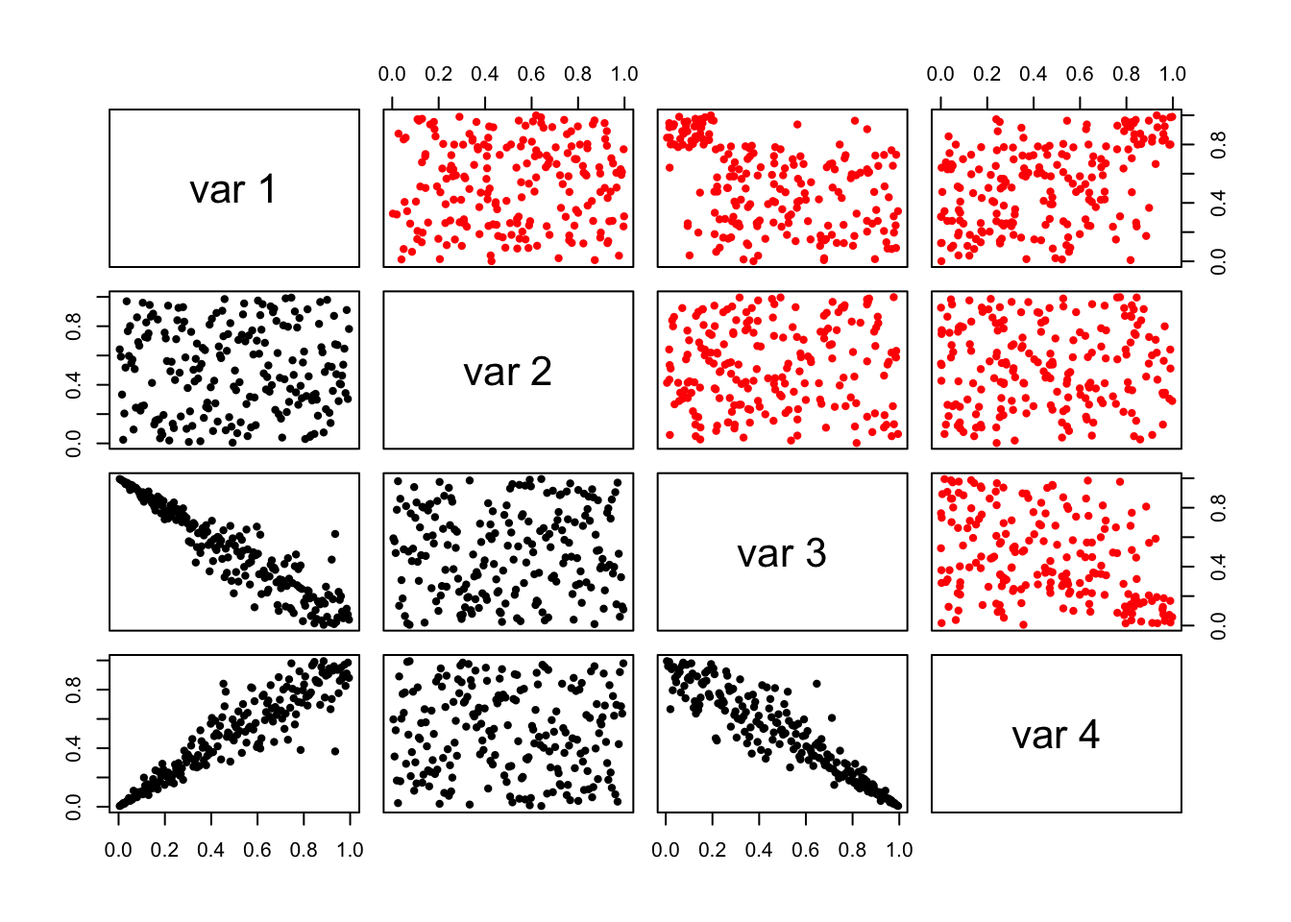
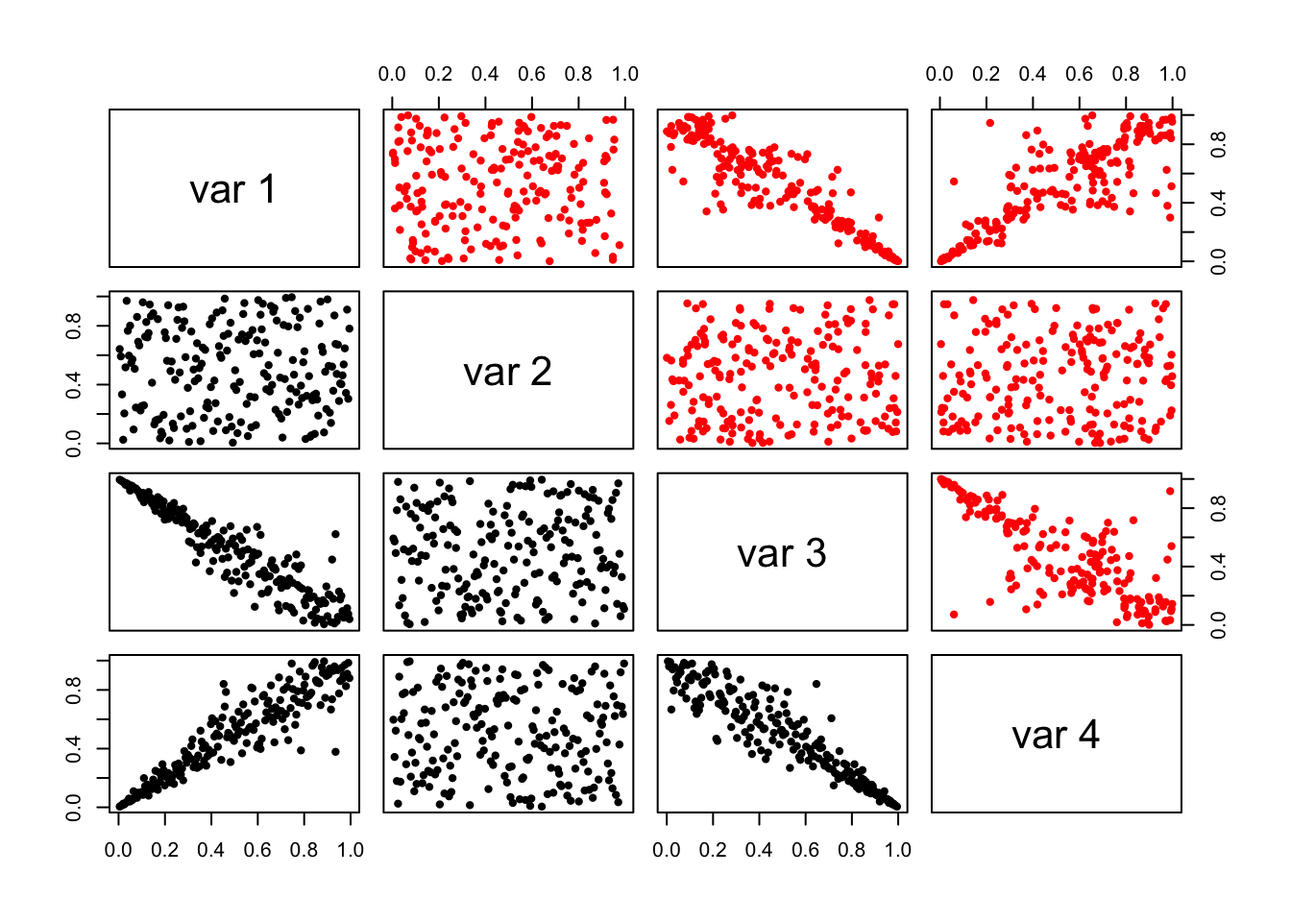
Deploy from 69902463 [ci skip]
Build URL: https://github.com/lrnv/cort/runs/69902463
Commit: 45805d22f25c1ee751f9bdb63c6695bccc3d5b72

diff --git a/articles/vignette02_cort_clayton.html b/articles/vignette02_cort_clayton.html
@@ -148,219 +148,23 @@
 <h1 class="hasAnchor">
 <a href="#fitting-the-cort-copula" class="anchor"></a>Fitting the Cort copula</h1>
 <p>Now that we have a dataset, we can run the Cort algorithm on it. In the implementation proposed here, this is done via the <code><a href="../reference/Cort-Class.html">cort::Cort()</a></code> function, passing first the dataset, and then various parameters. See <code><a href="../reference/Cort-Class.html">?Cort</a></code> for a detailed list of parameters. Note that the verbosity level is quite progressive: We will here put it on 4 to see the splitting decisions that the algorithm is making.</p>
-<div class="sourceCode" id="cb4"><html><body><pre class="r">(<span class="no">model</span> <span class="kw">=</span> <span class="fu"><a href="../reference/Cort-Class.html">Cort</a></span>(<span class="no">data</span>,<span class="kw">verbose_lvl</span><span class="kw">=</span><span class="fl">4</span>,<span class="kw">p_value_for_dim_red</span> <span class="kw">=</span> <span class="fl">0.75</span>))
+<div class="sourceCode" id="cb4"><html><body><pre class="r"><span class="fu"><a href="https://rdrr.io/r/base/Random.html">set.seed</a></span>(<span class="fl">12</span>)
+(<span class="no">model</span> <span class="kw">=</span> <span class="fu"><a href="../reference/Cort-Class.html">Cort</a></span>(<span class="no">data</span>,<span class="kw">verbose_lvl</span> <span class="kw">=</span> <span class="fl">1</span>))
 <span class="co">#&gt; Splitting...</span>
 <span class="co">#&gt; </span>
 <span class="co">#&gt;      1 leaves to split...</span>
-<span class="co">#&gt;         Leaf with 200 points.</span>
-<span class="co">#&gt;                     min   max   bp            p_value      action     reason</span>
-<span class="co">#&gt;                 1   0     1     0.793052545   0.00000000   Splitted         </span>
-<span class="co">#&gt;                 2   0     1     0.073367687   0.74574575   Splitted         </span>
-<span class="co">#&gt;                 3   0     1     0.208971391   0.00000000   Splitted         </span>
-<span class="co">#&gt;                 4   0     1     0.789004674   0.00000000   Splitted         </span>
-<span class="co">#&gt; </span>
-<span class="co">#&gt; </span>
+<span class="co">#&gt;      7 leaves to split...</span>
+<span class="co">#&gt;      14 leaves to split...</span>
+<span class="co">#&gt;      5 leaves to split...</span>
+<span class="co">#&gt;      2 leaves to split...</span>
+<span class="co">#&gt;      7 leaves to split...</span>
 <span class="co">#&gt;      10 leaves to split...</span>
-<span class="co">#&gt;         Leaf with 10 points.</span>
-<span class="co">#&gt;                     min          max           bp            p_value       action     reason           </span>
-<span class="co">#&gt;                 1   0.00000000   0.793052545   0.352889065   0.004004004   Splitted                    </span>
-<span class="co">#&gt;                 2   0.00000000   0.073367687   0.024906652   1.000000000   Removed    Independence test</span>
-<span class="co">#&gt;                 3   0.20897139   1.000000000   0.728581413   0.003003003   Splitted                    </span>
-<span class="co">#&gt;                 4   0.00000000   0.789004674   0.293596603   0.020020020   Splitted                    </span>
-<span class="co">#&gt; </span>
-<span class="co">#&gt;         Leaf with 5 points.</span>
-<span class="co">#&gt;                     min           max          bp           p_value       action    reason           </span>
-<span class="co">#&gt;                 1   0.000000000   0.79305255   0.74690936   0.025025025   Removed   Close to boundary</span>
-<span class="co">#&gt;                 2   0.073367687   1.00000000   0.46813125   0.814814815   Removed   Independence test</span>
-<span class="co">#&gt;                 3   0.000000000   0.20897139   0.11296377   1.000000000   Removed   Independence test</span>
-<span class="co">#&gt;                 4   0.000000000   0.78900467   0.73949521   0.001001001   Removed   Close to boundary</span>
-<span class="co">#&gt; </span>
-<span class="co">#&gt;         Leaf with 2 points.</span>
-<span class="co">#&gt;                     min           max          bp           p_value       action    reason           </span>
-<span class="co">#&gt;                 1   0.000000000   0.79305255   0.74626116   0.059059059   Removed   Close to boundary</span>
-<span class="co">#&gt;                 2   0.073367687   1.00000000   0.74589576   1.000000000   Removed   Independence test</span>
-<span class="co">#&gt;                 3   0.000000000   0.20897139   0.12887071   1.000000000   Removed   Independence test</span>
-<span class="co">#&gt;                 4   0.789004674   1.00000000   0.95764786   1.000000000   Removed   Independence test</span>
-<span class="co">#&gt; </span>
-<span class="co">#&gt;         Leaf with 132 points.</span>
-<span class="co">#&gt;                     min           max          bp             p_value      action       reason           </span>
-<span class="co">#&gt;                 1   0.000000000   0.79305255   0.0050458529   1.00000000   Removed      Independence test</span>
-<span class="co">#&gt;                 2   0.073367687   1.00000000   0.3275752217   0.71871872   Dissmissed   No one-dim split </span>
-<span class="co">#&gt;                 3   0.208971391   1.00000000   0.9942889745   0.76676677   Removed      Independence test</span>
-<span class="co">#&gt;                 4   0.000000000   0.78900467   0.0049829373   1.00000000   Removed      Independence test</span>
-<span class="co">#&gt; </span>
-<span class="co">#&gt;         Leaf with 10 points.</span>
-<span class="co">#&gt;                     min           max          bp           p_value       action     reason</span>
-<span class="co">#&gt;                 1   0.000000000   0.79305255   0.72963150   0.001001001   Splitted         </span>
-<span class="co">#&gt;                 2   0.073367687   1.00000000   0.79100598   0.699699700   Splitted         </span>
-<span class="co">#&gt;                 3   0.208971391   1.00000000   0.29192633   0.000000000   Splitted         </span>
-<span class="co">#&gt;                 4   0.789004674   1.00000000   0.81148953   0.708708709   Splitted         </span>
-<span class="co">#&gt; </span>
-<span class="co">#&gt;         Leaf with 2 points.</span>
-<span class="co">#&gt;                     min          max           bp           p_value       action    reason           </span>
-<span class="co">#&gt;                 1   0.79305255   1.000000000   0.86194949   1.000000000   Removed   Independence test</span>
-<span class="co">#&gt;                 2   0.00000000   0.073367687   0.05472341   1.000000000   Removed   Independence test</span>
-<span class="co">#&gt;                 3   0.00000000   0.208971391   0.09819171   1.000000000   Removed   Independence test</span>
-<span class="co">#&gt;                 4   0.00000000   0.789004674   0.77882992   0.038038038   Removed   Close to boundary</span>
-<span class="co">#&gt; </span>
-<span class="co">#&gt;         Leaf with 2 points.</span>
-<span class="co">#&gt;                     min          max           bp           p_value   action    reason           </span>
-<span class="co">#&gt;                 1   0.79305255   1.000000000   0.84577393   1         Removed   Independence test</span>
-<span class="co">#&gt;                 2   0.00000000   0.073367687   0.06466854   1         Removed   Independence test</span>
-<span class="co">#&gt;                 3   0.00000000   0.208971391   0.02486931   1         Removed   Independence test</span>
-<span class="co">#&gt;                 4   0.78900467   1.000000000   0.98010096   1         Removed   Independence test</span>
-<span class="co">#&gt; </span>
-<span class="co">#&gt;         Leaf with 4 points.</span>
-<span class="co">#&gt;                     min           max          bp           p_value       action     reason           </span>
-<span class="co">#&gt;                 1   0.793052545   1.00000000   0.83390714   1.000000000   Removed    Independence test</span>
-<span class="co">#&gt;                 2   0.073367687   1.00000000   0.32338671   0.342342342   Splitted                    </span>
-<span class="co">#&gt;                 3   0.000000000   0.20897139   0.16577896   0.350350350   Splitted                    </span>
-<span class="co">#&gt;                 4   0.000000000   0.78900467   0.75073715   0.001001001   Removed    Close to boundary</span>
-<span class="co">#&gt; </span>
-<span class="co">#&gt;         Leaf with 27 points.</span>
-<span class="co">#&gt;                     min           max          bp            p_value       action     reason           </span>
-<span class="co">#&gt;                 1   0.793052545   1.00000000   0.910329521   0.897897898   Removed    Independence test</span>
-<span class="co">#&gt;                 2   0.073367687   1.00000000   0.338796206   0.349349349   Splitted                    </span>
-<span class="co">#&gt;                 3   0.000000000   0.20897139   0.062298738   0.074074074   Splitted                    </span>
-<span class="co">#&gt;                 4   0.789004674   1.00000000   0.945266108   0.055055055   Splitted                    </span>
-<span class="co">#&gt; </span>
-<span class="co">#&gt;         Leaf with 5 points.</span>
-<span class="co">#&gt;                     min           max          bp           p_value       action    reason           </span>
-<span class="co">#&gt;                 1   0.793052545   1.00000000   0.89242312   1.000000000   Removed   Independence test</span>
-<span class="co">#&gt;                 2   0.073367687   1.00000000   0.34903643   1.000000000   Removed   Independence test</span>
-<span class="co">#&gt;                 3   0.208971391   1.00000000   0.22959515   0.050050050   Removed   Close to boundary</span>
-<span class="co">#&gt;                 4   0.000000000   0.78900467   0.77189052   0.006006006   Removed   Close to boundary</span>
-<span class="co">#&gt; </span>
-<span class="co">#&gt; </span>
-<span class="co">#&gt;      10 leaves to split...</span>
-<span class="co">#&gt;         Leaf with 4 points.</span>
-<span class="co">#&gt;                     min          max           bp           p_value      action     reason</span>
-<span class="co">#&gt;                 1   0.00000000   0.352889065   0.16685647   0.11711712   Splitted         </span>
-<span class="co">#&gt;                 2   0.00000000   0.073367687          NaN          NaN                    </span>
-<span class="co">#&gt;                 3   0.72858141   1.000000000   0.84961846   0.15215215   Splitted         </span>
-<span class="co">#&gt;                 4   0.00000000   0.293596603   0.17735509   0.10710711   Splitted         </span>
-<span class="co">#&gt; </span>
-<span class="co">#&gt;         Leaf with 5 points.</span>
-<span class="co">#&gt;                     min          max           bp           p_value      action     reason           </span>
-<span class="co">#&gt;                 1   0.35288907   0.793052545   0.51746242   0.20220220   Splitted                    </span>
-<span class="co">#&gt;                 2   0.00000000   0.073367687          NaN          NaN                               </span>
-<span class="co">#&gt;                 3   0.20897139   0.728581413   0.49250735   0.22422422   Splitted                    </span>
-<span class="co">#&gt;                 4   0.29359660   0.789004674   0.56201653   0.80180180   Removed    Independence test</span>
-<span class="co">#&gt; </span>
-<span class="co">#&gt;         Leaf with 2 points.</span>
-<span class="co">#&gt;                     min           max          bp           p_value      action     reason           </span>
-<span class="co">#&gt;                 1   0.000000000   0.72963150   0.56946631   0.19119119   Splitted                    </span>
-<span class="co">#&gt;                 2   0.073367687   0.79100598   0.27067610   0.27627628   Splitted                    </span>
-<span class="co">#&gt;                 3   0.291926333   1.00000000   0.43285906   0.40840841   Removed    Close to boundary</span>
-<span class="co">#&gt;                 4   0.811489533   1.00000000   0.82108149   1.00000000   Removed    Independence test</span>
-<span class="co">#&gt; </span>
-<span class="co">#&gt;         Leaf with 2 points.</span>
-<span class="co">#&gt;                     min          max          bp           p_value   action    reason           </span>
-<span class="co">#&gt;                 1   0.79305255   1.00000000          NaN   NaN                                  </span>
-<span class="co">#&gt;                 2   0.32338671   1.00000000   0.67382629     1       Removed   Independence test</span>
-<span class="co">#&gt;                 3   0.00000000   0.16577896   0.14924511     1       Removed   Independence test</span>
-<span class="co">#&gt;                 4   0.00000000   0.78900467          NaN   NaN                                  </span>
-<span class="co">#&gt; </span>
-<span class="co">#&gt;         Leaf with 2 points.</span>
-<span class="co">#&gt;                     min           max          bp           p_value      action    reason           </span>
-<span class="co">#&gt;                 1   0.793052545   1.00000000          NaN          NaN                              </span>
-<span class="co">#&gt;                 2   0.073367687   0.33879621   0.33723983   0.56256256   Removed   Close to boundary</span>
-<span class="co">#&gt;                 3   0.062298738   0.20897139   0.10477741   1.00000000   Removed   Independence test</span>
-<span class="co">#&gt;                 4   0.789004674   0.94526611   0.82646150   1.00000000   Removed   Independence test</span>
-<span class="co">#&gt; </span>
-<span class="co">#&gt;         Leaf with 4 points.</span>
-<span class="co">#&gt;                     min           max          bp           p_value       action     reason           </span>
-<span class="co">#&gt;                 1   0.793052545   1.00000000          NaN           NaN                               </span>
-<span class="co">#&gt;                 2   0.073367687   0.33879621   0.29163272   0.436436436   Splitted                    </span>
-<span class="co">#&gt;                 3   0.062298738   0.20897139   0.12488817   0.086086086   Splitted                    </span>
-<span class="co">#&gt;                 4   0.945266108   1.00000000   0.96516871   1.000000000   Removed    Independence test</span>
-<span class="co">#&gt; </span>
-<span class="co">#&gt;         Leaf with 6 points.</span>
-<span class="co">#&gt;                     min          max           bp            p_value      action    reason           </span>
-<span class="co">#&gt;                 1   0.79305255   1.000000000           NaN          NaN                              </span>
-<span class="co">#&gt;                 2   0.33879621   1.000000000   0.954958187   0.24024024   Removed   Close to boundary</span>
-<span class="co">#&gt;                 3   0.00000000   0.062298738   0.059698319   1.00000000   Removed   Independence test</span>
-<span class="co">#&gt;                 4   0.78900467   0.945266108   0.938524753   0.30430430   Removed   Close to boundary</span>
-<span class="co">#&gt; </span>
-<span class="co">#&gt;         Leaf with 2 points.</span>
-<span class="co">#&gt;                     min          max           bp           p_value   action    reason           </span>
-<span class="co">#&gt;                 1   0.79305255   1.000000000          NaN   NaN                                  </span>
-<span class="co">#&gt;                 2   0.33879621   1.000000000   0.87064461     1       Removed   Independence test</span>
-<span class="co">#&gt;                 3   0.00000000   0.062298738   0.01070954     1       Removed   Independence test</span>
-<span class="co">#&gt;                 4   0.94526611   1.000000000   0.96041858     1       Removed   Independence test</span>
-<span class="co">#&gt; </span>
-<span class="co">#&gt;         Leaf with 9 points.</span>
-<span class="co">#&gt;                     min           max          bp           p_value      action    reason           </span>
-<span class="co">#&gt;                 1   0.793052545   1.00000000          NaN          NaN                              </span>
-<span class="co">#&gt;                 2   0.338796206   1.00000000   0.33914227   0.32032032   Removed   Close to boundary</span>
-<span class="co">#&gt;                 3   0.062298738   0.20897139   0.20887895   0.84484484   Removed   Independence test</span>
-<span class="co">#&gt;                 4   0.789004674   0.94526611   0.94516367   1.00000000   Removed   Independence test</span>
-<span class="co">#&gt; </span>
-<span class="co">#&gt;         Leaf with 2 points.</span>
-<span class="co">#&gt;                     min           max          bp           p_value      action    reason           </span>
-<span class="co">#&gt;                 1   0.793052545   1.00000000          NaN          NaN                              </span>
-<span class="co">#&gt;                 2   0.338796206   1.00000000   0.40298990   0.65365365   Removed   Close to boundary</span>
-<span class="co">#&gt;                 3   0.062298738   0.20897139   0.18666063   0.32732733   Removed   Close to boundary</span>
-<span class="co">#&gt;                 4   0.945266108   1.00000000   0.95041783   1.00000000   Removed   Independence test</span>
-<span class="co">#&gt; </span>
-<span class="co">#&gt; </span>
-<span class="co">#&gt;      3 leaves to split...</span>
-<span class="co">#&gt;         Leaf with 2 points.</span>
-<span class="co">#&gt;                     min          max           bp           p_value      action    reason           </span>
-<span class="co">#&gt;                 1   0.16685647   0.352889065   0.16737811   0.29129129   Removed   Close to boundary</span>
-<span class="co">#&gt;                 2   0.00000000   0.073367687          NaN          NaN                              </span>
-<span class="co">#&gt;                 3   0.72858141   0.849618461   0.73051292   1.00000000   Removed   Independence test</span>
-<span class="co">#&gt;                 4   0.17735509   0.293596603   0.29280827   0.49749750   Removed   Close to boundary</span>
-<span class="co">#&gt; </span>
-<span class="co">#&gt;         Leaf with 3 points.</span>
-<span class="co">#&gt;                     min          max           bp           p_value      action    reason           </span>
-<span class="co">#&gt;                 1   0.35288907   0.517462423   0.51739856   0.61761762   Removed   Close to boundary</span>
-<span class="co">#&gt;                 2   0.00000000   0.073367687          NaN          NaN                              </span>
-<span class="co">#&gt;                 3   0.49250735   0.728581413   0.49254720   0.11311311   Removed   Close to boundary</span>
-<span class="co">#&gt;                 4   0.29359660   0.789004674          NaN          NaN                              </span>
-<span class="co">#&gt; </span>
-<span class="co">#&gt;         Leaf with 2 points.</span>
-<span class="co">#&gt;                     min           max          bp            p_value     action    reason           </span>
-<span class="co">#&gt;                 1   0.793052545   1.00000000           NaN         NaN                              </span>
-<span class="co">#&gt;                 2   0.291632715   0.33879621   0.296771643   0.1041041   Removed   Close to boundary</span>
-<span class="co">#&gt;                 3   0.062298738   0.12488817   0.069654513   1.0000000   Removed   Independence test</span>
-<span class="co">#&gt;                 4   0.945266108   1.00000000           NaN         NaN                              </span>
-<span class="co">#&gt; </span>
-<span class="co">#&gt; </span>
-<span class="co">#&gt;      0 leaves to split...</span>
+<span class="co">#&gt;      19 leaves to split...</span>
+<span class="co">#&gt;      5 leaves to split...</span>
+<span class="co">#&gt;      1 leaves to split...</span>
 <span class="co">#&gt; Enforcing constraints...</span>
-<span class="co">#&gt; -----------------------------------------------------------------</span>
-<span class="co">#&gt;            OSQP v0.6.0  -  Operator Splitting QP Solver</span>
-<span class="co">#&gt;               (c) Bartolomeo Stellato,  Goran Banjac</span>
-<span class="co">#&gt;         University of Oxford  -  Stanford University 2019</span>
-<span class="co">#&gt; -----------------------------------------------------------------</span>
-<span class="co">#&gt; problem:  variables n = 64, constraints m = 115</span>
-<span class="co">#&gt;           nnz(P) + nnz(A) = 2205</span>
-<span class="co">#&gt; settings: linear system solver = qdldl,</span>
-<span class="co">#&gt;           eps_abs = 1.0e-06, eps_rel = 1.0e-06,</span>
-<span class="co">#&gt;           eps_prim_inf = 1.0e-06, eps_dual_inf = 1.0e-06,</span>
-<span class="co">#&gt;           rho = 1.00e-01 (adaptive),</span>
-<span class="co">#&gt;           sigma = 1.00e-06, alpha = 1.60, max_iter = 100000</span>
-<span class="co">#&gt;           check_termination: on (interval 25),</span>
-<span class="co">#&gt;           scaling: on, scaled_termination: off</span>
-<span class="co">#&gt;           warm start: on, polish: on, time_limit: off</span>
-<span class="co">#&gt; </span>
-<span class="co">#&gt; iter   objective    pri res    dua res    rho        time</span>
-<span class="co">#&gt;    1  -4.5556e+00   1.39e-02   5.80e+02   1.00e-01   5.68e-04s</span>
-<span class="co">#&gt;  200  -3.6617e+00   1.20e-04   9.16e-03   8.67e-01   3.00e-03s</span>
-<span class="co">#&gt;  400  -3.6569e+00   1.09e-05   7.78e-04   8.67e-01   5.43e-03s</span>
-<span class="co">#&gt;  575  -3.6565e+00   1.83e-06   1.30e-04   8.67e-01   7.13e-03s</span>
-<span class="co">#&gt; plsh  -3.6565e+00   7.31e-16   1.89e-13   --------   8.61e-03s</span>
-<span class="co">#&gt; </span>
-<span class="co">#&gt; status:               solved</span>
-<span class="co">#&gt; solution polish:      successful</span>
-<span class="co">#&gt; number of iterations: 575</span>
-<span class="co">#&gt; optimal objective:    -3.6565</span>
-<span class="co">#&gt; run time:             8.61e-03s</span>
-<span class="co">#&gt; optimal rho estimate: 2.79e+00</span>
-<span class="co">#&gt; </span>
 <span class="co">#&gt; Done !</span>
-<span class="co">#&gt; Cort copula model: 200x4-dataset and 64 leaves.</span></pre></body></html></div>
+<span class="co">#&gt; Cort copula model: 200x4-dataset and 185 leaves.</span></pre></body></html></div>
 <p>Looking at the top of the output, we see that the first thing the algorithm did was removing the second dimension due to the independence test. Now that the copula is fitted, we have access to numerous of it’s methods. Two plotting functions are exported with this model, the <code>pairs</code> function is implemented at a very low level in the class hierarchy and hence is working with almost all copulas of this package, but the <code>plot</code> function is only implemented for Cort.</p>
 <div class="sourceCode" id="cb5"><html><body><pre class="r"><span class="fu"><a href="https://rdrr.io/r/graphics/pairs.html">pairs</a></span>(<span class="no">model</span>)</pre></body></html></div>
 <div class="figure">

diff --git a/reference/biv_tau-methods.html b/reference/biv_tau-methods.html
@@ -170,13 +170,13 @@
 #&gt; 
 #&gt;      1 leaves to split...
 #&gt;      5 leaves to split...
-#&gt;      9 leaves to split...
+#&gt;      8 leaves to split...
 #&gt;      4 leaves to split...
-#&gt;      0 leaves to split...Enforcing constraints...
+#&gt; Enforcing constraints...
 #&gt; Done !</div><div class='input'><span class='fu'>biv_tau</span>(<span class='no'>cop</span>)</div><div class='output co'>#&gt;            [,1]       [,2]       [,3]
-#&gt; [1,]  1.0000000 -0.1816516  0.2243843
-#&gt; [2,] -0.1816516  1.0000000 -0.5204311
-#&gt; [3,]  0.2243843 -0.5204311  1.0000000</div><div class='input'>
+#&gt; [1,]  1.0000000 -0.1979215  0.2608882
+#&gt; [2,] -0.1979215  1.0000000 -0.3343366
+#&gt; [3,]  0.2608882 -0.3343366  1.0000000</div><div class='input'>
 </div></pre>
   </div>
   <div class="col-md-3 hidden-xs hidden-sm" id="pkgdown-sidebar">

diff --git a/reference/kendall_func-methods.html b/reference/kendall_func-methods.html
@@ -182,11 +182,10 @@
 #&gt; 
 #&gt;      1 leaves to split...
 #&gt;      5 leaves to split...
-#&gt;      9 leaves to split...
+#&gt;      8 leaves to split...
 #&gt;      4 leaves to split...
-#&gt;      1 leaves to split...
-#&gt;      0 leaves to split...Enforcing constraints...
-#&gt; Done !</div><div class='input'><span class='fu'>kendall_func</span>(<span class='no'>cop</span>,<span class='fl'>0.5</span>)</div><div class='output co'>#&gt; [1] 0.993</div><div class='input'>
+#&gt; Enforcing constraints...
+#&gt; Done !</div><div class='input'><span class='fu'>kendall_func</span>(<span class='no'>cop</span>,<span class='fl'>0.5</span>)</div><div class='output co'>#&gt; [1] 0.977</div><div class='input'>
 </div></pre>
   </div>
   <div class="col-md-3 hidden-xs hidden-sm" id="pkgdown-sidebar">

diff --git a/reference/biv_rho-methods.html b/reference/biv_rho-methods.html
@@ -172,11 +172,11 @@
 #&gt;      5 leaves to split...
 #&gt;      9 leaves to split...
 #&gt;      4 leaves to split...
-#&gt;      0 leaves to split...Enforcing constraints...
+#&gt; Enforcing constraints...
 #&gt; Done !</div><div class='input'><span class='fu'>biv_rho</span>(<span class='no'>cop</span>)</div><div class='output co'>#&gt;            [,1]       [,2]       [,3]
-#&gt; [1,]  1.0000000 -0.2714785  0.3329082
-#&gt; [2,] -0.2714785  1.0000000 -0.7097511
-#&gt; [3,]  0.3329082 -0.7097511  1.0000000</div><div class='input'>
+#&gt; [1,]  1.0000000 -0.2221784  0.4297110
+#&gt; [2,] -0.2221784  1.0000000 -0.2820344
+#&gt; [3,]  0.4297110 -0.2820344  1.0000000</div><div class='input'>
 </div></pre>
   </div>
   <div class="col-md-3 hidden-xs hidden-sm" id="pkgdown-sidebar">

diff --git a/reference/quad_norm-methods.html b/reference/quad_norm-methods.html
@@ -174,10 +174,11 @@
 #&gt; 
 #&gt;      1 leaves to split...
 #&gt;      5 leaves to split...
-#&gt;      9 leaves to split...
+#&gt;      8 leaves to split...
 #&gt;      4 leaves to split...
-#&gt;      0 leaves to split...Enforcing constraints...
-#&gt; Done !</div><div class='input'><span class='fu'>quad_norm</span>(<span class='no'>cop</span>)</div><div class='output co'>#&gt; [1] 3.612073</div><div class='input'>
+#&gt;      1 leaves to split...
+#&gt; Enforcing constraints...
+#&gt; Done !</div><div class='input'><span class='fu'>quad_norm</span>(<span class='no'>cop</span>)</div><div class='output co'>#&gt; [1] 3.998354</div><div class='input'>
 </div></pre>
   </div>
   <div class="col-md-3 hidden-xs hidden-sm" id="pkgdown-sidebar">

diff --git a/reference/constraint_infl-methods.html b/reference/constraint_infl-methods.html
@@ -175,10 +175,8 @@
 #&gt;      1 leaves to split...
 #&gt;      5 leaves to split...
 #&gt;      8 leaves to split...
-#&gt;      4 leaves to split...
-#&gt;      1 leaves to split...
-#&gt;      0 leaves to split...Enforcing constraints...
-#&gt; Done !</div><div class='input'><span class='fu'>constraint_infl</span>(<span class='no'>cop</span>)</div><div class='output co'>#&gt; [1] 0.7137471</div><div class='input'>
+#&gt; Enforcing constraints...
+#&gt; Done !</div><div class='input'><span class='fu'>constraint_infl</span>(<span class='no'>cop</span>)</div><div class='output co'>#&gt; [1] 2.061423</div><div class='input'>
 </div></pre>
   </div>
   <div class="col-md-3 hidden-xs hidden-sm" id="pkgdown-sidebar">

diff --git a/reference/quad_prod_with_data-methods.html b/reference/quad_prod_with_data-methods.html
@@ -172,9 +172,8 @@
 #&gt;      5 leaves to split...
 #&gt;      8 leaves to split...
 #&gt;      4 leaves to split...
-#&gt;      1 leaves to split...
-#&gt;      0 leaves to split...Enforcing constraints...
-#&gt; Done !</div><div class='input'><span class='fu'>quad_prod_with_data</span>(<span class='no'>cop</span>)</div><div class='output co'>#&gt; [1] 4.006294</div><div class='input'>
+#&gt; Enforcing constraints...
+#&gt; Done !</div><div class='input'><span class='fu'>quad_prod_with_data</span>(<span class='no'>cop</span>)</div><div class='output co'>#&gt; [1] 6.049411</div><div class='input'>
 </div></pre>
   </div>
   <div class="col-md-3 hidden-xs hidden-sm" id="pkgdown-sidebar">

diff --git a/reference/project_on_dims-methods.html b/reference/project_on_dims-methods.html
@@ -174,9 +174,9 @@
 #&gt; 
 #&gt;      1 leaves to split...
 #&gt;      5 leaves to split...
-#&gt;      9 leaves to split...
+#&gt;      8 leaves to split...
 #&gt;      4 leaves to split...
-#&gt;      0 leaves to split...Enforcing constraints...
+#&gt; Enforcing constraints...
 #&gt; Done !</div><div class='input'><span class='no'>projection</span> <span class='kw'>=</span> <span class='fu'>project_on_dims</span>(<span class='no'>cop</span>,<span class='fu'><a href='https://rdrr.io/r/base/c.html'>c</a></span>(<span class='fl'>1</span>,<span class='fl'>2</span>))</div></pre>
   </div>
   <div class="col-md-3 hidden-xs hidden-sm" id="pkgdown-sidebar">

diff --git a/reference/loss-methods.html b/reference/loss-methods.html
@@ -172,8 +172,8 @@
 #&gt;      5 leaves to split...
 #&gt;      8 leaves to split...
 #&gt;      4 leaves to split...
-#&gt;      0 leaves to split...Enforcing constraints...
-#&gt; Done !</div><div class='input'><span class='fu'>loss</span>(<span class='no'>cop</span>)</div><div class='output co'>#&gt; [1] -1.967636</div><div class='input'>
+#&gt; Enforcing constraints...
+#&gt; Done !</div><div class='input'><span class='fu'>loss</span>(<span class='no'>cop</span>)</div><div class='output co'>#&gt; [1] -3.570944</div><div class='input'>
 </div></pre>
   </div>
   <div class="col-md-3 hidden-xs hidden-sm" id="pkgdown-sidebar">

diff --git a/reference/quad_prod-methods.html b/reference/quad_prod-methods.html
@@ -174,8 +174,9 @@
 #&gt; 
 #&gt;      1 leaves to split...
 #&gt;      5 leaves to split...
-#&gt;      9 leaves to split...
-#&gt;      0 leaves to split...Enforcing constraints...
+#&gt;      8 leaves to split...
+#&gt;      4 leaves to split...
+#&gt; Enforcing constraints...
 #&gt; Done !</div><div class='input'><span class='fu'>quad_prod</span>(<span class='no'>cop</span>,<span class='no'>cop</span>) <span class='kw'>==</span> <span class='fu'><a href='quad_norm-methods.html'>quad_norm</a></span>(<span class='no'>cop</span>)</div><div class='output co'>#&gt; [1] FALSE</div><div class='input'>
 </div></pre>
   </div>

diff --git a/news/index.html b/news/index.html
@@ -146,8 +146,9 @@
 <li>Corrected bug when there is only one leave in the tree.</li>
 <li>Corrected bug in pairs.Cort : dimensions were switched for leaves but not for points.</li>
 <li>Removed dependency to magritr::<code>%&gt;%</code>. This was unnecessary.</li>
-<li>Cut the runtime of p_values computtions by half.</li>
+<li>Cut the runtime of p_values computations by half.</li>
 <li>better runtime in the loss function in Rcpp.</li>
+<li>Removed Box classes : infrastructure changes that make the package lighter and faster.</li>
 </ul>
 </div>
     <div id="cort-030" class="section level1">

diff --git a/reference/Cort-Class.html b/reference/Cort-Class.html
@@ -198,8 +198,8 @@
 #&gt;      5 leaves to split...
 #&gt;      8 leaves to split...
 #&gt;      4 leaves to split...
-#&gt;      0 leaves to split...Enforcing constraints...
-#&gt; Done !</div><div class='output co'>#&gt; Cort copula model: 50x3-dataset and 31 leaves.</div></pre>
+#&gt; Enforcing constraints...
+#&gt; Done !</div><div class='output co'>#&gt; Cort copula model: 50x3-dataset and 47 leaves.</div></pre>
   </div>
   <div class="col-md-3 hidden-xs hidden-sm" id="pkgdown-sidebar">
     <nav id="toc" data-toggle="toc" class="sticky-top">
